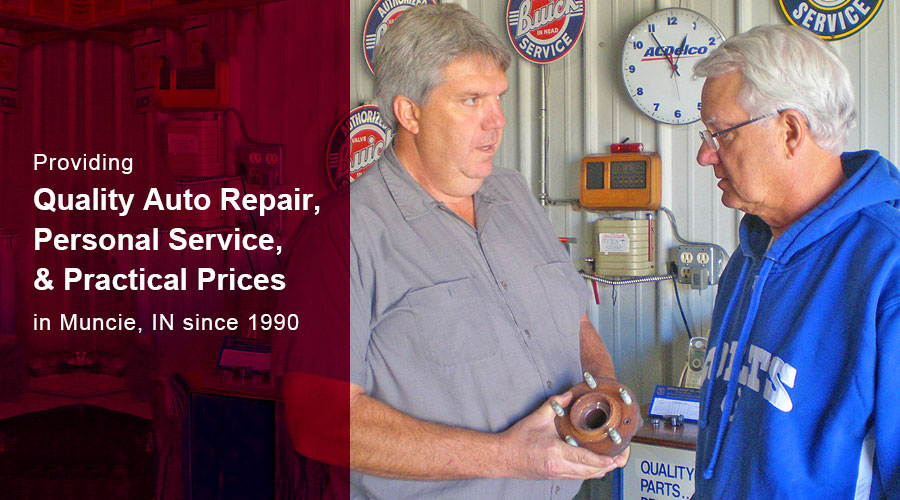
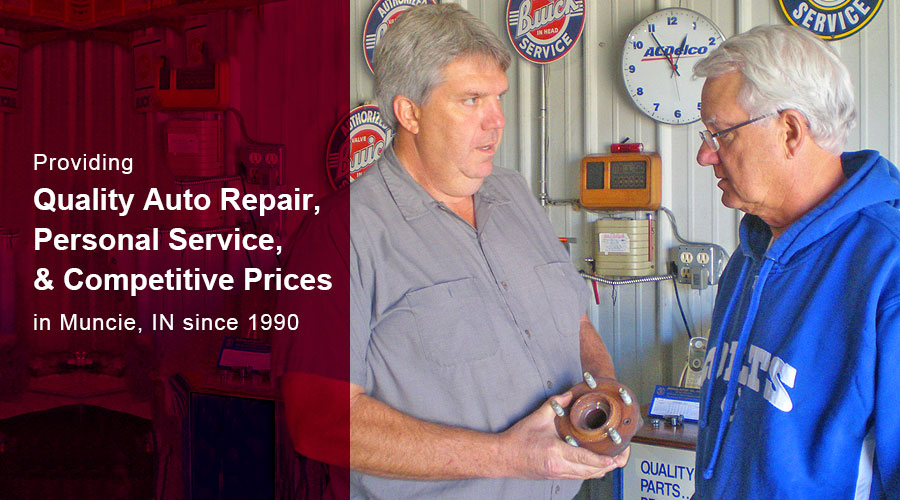
tweaks

Changed region(s): [[0.0622, 0.54, 0.3733, 0.6]]

diff --git a/web/index.html b/web/index.html
@@ -91,35 +91,13 @@
             <li><img src="img/slide-2a.jpg" alt=""></li>
         </ul>
     </div>
+    <div class="mobile-only-show">
+        <img id="mini-logo" src="img/logo.png">
+    </div>
 </div>
 <!--end home-->
 
-<!-- about -->
-<div id="about" class="section group">
-    <h1>About</h1>
 
-    <div class="bump">
-        <div class="textbox col span_7-12">
-            <p>Steve and Debbie opened Metcalfe Automotive in July of 1990 on the south side of Muncie.
-                Prior to that Steve worked at a locally well-known alignment shop right out of high school.
-                While studying automotive technology at Ivy Tech, he also spent several years as the lead
-                alignment technician at a local Chevrolet dealership. While at the dealership, Steve gained
-                experience and knowledge and became a GM certified technician, as well as an ASE
-                master and advanced level certified technician. Throughout the years,
-                Metcalfe Automotive has had opportunities to expand, but they have purposely kept the business
-                at a level where they can offer the personal service that
-                many of their long time customers have grown to appreciate. Since opening Metcalfe Automotive,
-                they continue to provide customers with a high-level of service, quality parts,
-                and pratical prices.</p>
-        </div>
-        <!--textbox-->
-        <div class="photo col span_5-12">
-            <img src="img/outsideshop.jpg" class="radius">
-            <img src="img/certlogos.png">
-        </div>
-    </div>
-</div>
-<!--end about-->
 
 <!-- services -->
 <div id="services" class="section group">
@@ -131,7 +109,7 @@
 
             <div id="table1col1" class="col span_6-12">
                 <ul>
-                    <li><a href="#alignment">3D wheel Alignment</a></li>
+                    <li><a href="#alignment">Wheel Alignment Using 3D Technology</a></li>
                     <li>Chassis and suspension repair</li>
                     <li>Strut replacement</li>
                     <li>Serpentine belt replacement</li>
@@ -158,7 +136,7 @@
     <div class="bump">
         <div id="gmservices" class="col span_12-12">
             <h2>Additional Services for GM Vehicles
-                <span>(Chevorlet, Buick, GMC, Cadillac, Pontiac, & Oldsmobile)</span></h2>
+                <span class="mobile-no-show">(Chevrolet, Buick, GMC, Cadillac, Pontiac, & Oldsmobile)</span></h2>
 
             <div id="table2col1" class="col span_6-12">
                 <ul>
@@ -187,7 +165,7 @@
                     <li>Pre purchase inspections</li>
                     <li>ABS light diagnosis and repair</li>
                     <li>Cooling system service</li>
-                    <li>Waterpump replacement</li>
+                    <li>Water pump replacement</li>
                     <li>Thermostat replacement</li>
                 </ul>
             </div>
@@ -207,15 +185,19 @@
                 3D wheel alignment machine in the business today for quick and accurate wheel alignments. Not all
                 3D alignment machines are created equal, only the Hofmann Geoliner machine can do both vehicle
                 dimensioning and steering and torque sensor re-calibration for a complete alignment to extend tire
-                life and maximize fuel economy. For more information, please give us a call.</p>
-            <img src="img/dimension.jpg" class="dim radius"/></div>
+                life and maximize fuel economy. For more information, give us a call today!</p>
+            <img src="img/dimension.jpg" class="dim radius mobile-no-show"/></div>
         <!--textbox-->
-        <div class="photo col span_5-12 ie7floatfix">
+        <div class="photo col span_5-12 mobile-no-show ie7floatfix">
             <img src="img/alignment-vert.jpg" class="transverse radius">
+        </div>
+
+        <div class="mobile-only-show photo">
+            <img src="img/slide1.jpg" class="dim radius">
         </div>
     </div>
 
-    <h1></br>Why might I need a wheel alignment?</h1>
+    <h1>Why should I get a Wheel Alignment?</h1>
 
     <div class="bump">
         <div class="textbox col span_12-12 ie7widthfix">
@@ -243,8 +225,13 @@
             needed!?
 
             <h3>Wanting to maximize fuel mileage.</h3>
-            If all four tires are not pointed in the same direction, it's harder for the car to trace efficiently.
+            If all four tires are not pointed in the same direction, it's harder for the car to track efficiently.
             The easier the car rolls or tracks without scuff, the easier it is on the engine and maximizes fuel mileage.
+
+            <h3>To save money throughout the year</h3>
+            If your tires are toed out of alignment by just .017 in., it's the equivalent of dragging your tires
+            sideways for 102 miles for every 20,000 you drive. That’ll cost you $187.50 a year in wasted gas. It will
+            wear your tires faster, costing you $70 more a year. That's a total of $257.50 per year out of your wallet!
 
         </div>
         <!--textbox-->
@@ -262,18 +249,47 @@
 </div>
 <!--end alignment-->
 
+<!-- about -->
+<div id="about" class="section group">
+    <h1>About</h1>
+
+    <div class="bump">
+        <div class="textbox col span_7-12">
+            <p>Steve and Debbie opened Metcalfe Automotive in July of 1990 on the south side of Muncie.
+                Prior to that Steve worked at a locally well-known alignment shop right out of high school.
+                While studying automotive technology at Ivy Tech, he also spent several years as the lead
+                alignment technician at a local Chevrolet dealership. While at the dealership, Steve gained
+                experience and knowledge and became a GM certified technician, as well as an ASE
+                master and advanced level certified technician. Throughout the years Steve has established credibility
+                by giving vehicles attention to detail and by doing the job right the first time. Providing personal,
+                trustworthy service, quality parts and competitive pricing is why many customers have trusted their
+                automobile needs to Metcalfe Automotive.
+                Henry Ford once said "One mechanic can tighten a bolt as well as another. The greatest difference in
+                mechanics lies in the degree of thoroughness with which they do their work and the logic they use in
+                finding the underlying causes behind the failures they encounter".</p>
+        </div>
+        <!--textbox-->
+        <div class="photo col span_5-12">
+            <img src="img/outsideshop.jpg" class="radius mobile-no-show">
+            <img src="img/certlogos.png">
+        </div>
+    </div>
+</div>
+<!--end about-->
+
 <!-- contact -->
 <div id="contact" class="section group">
     <h1>Contact</h1>
 
-    <div class="radius Flexible-container col span_7-12 no-float">
-        <iframe width="425"
+    <div id="map-container" class="radius Flexible-container col span_7-12 no-float">
+        <iframe id="map"
+                width="425"
                 height="350"
                 frameborder="0"
                 scrolling="no"
                 marginheight="0"
                 marginwidth="0"
-                src="https://maps.google.com/maps?f=q&amp;source=s_q&amp;hl=en&amp;geocode=&amp;q=2218+South+Monroe+Street,+Muncie,+IN&amp;aq=0&amp;oq=2218+S.+Monroe+Str&amp;sll=37.0625,-95.677068&amp;sspn=103.517908,65.478516&amp;ie=UTF8&amp;hq=&amp;hnear=2218+S+Monroe+St,+Muncie,+Indiana+47302&amp;t=m&amp;ll=40.174676,-85.380249&amp;spn=0.091814,0.145912&amp;z=12&amp;iwloc=A&amp;output=embed">
+                src="https://maps.google.com/maps?f=q&amp;source=s_q&amp;hl=en&amp;geocode=&amp;q=2218+South+Monroe+Street,+Muncie,+IN&amp;aq=0&amp;oq=2218+S.+Monroe+Str&amp;sll=37.0625,-95.677068&amp;sspn=103.517908,65.478516&amp;ie=UTF8&amp;hq=&amp;hnear=2218+S+Monroe+St,+Muncie,+Indiana+47302&amp;t=m&amp;ll=40.174676,-85.380249&amp;spn=0.091814,0.145912&amp;z=12&amp;iwloc=near&amp;output=embed">
         </iframe>
     </div>
 

diff --git a/web/css/style.css b/web/css/style.css
@@ -372,7 +372,6 @@ a {
 
 .dim {
     max-width: 100%;
-
     margin: 0 auto;
     margin-top: 30px;
 }
@@ -538,6 +537,10 @@ br.test {
     *display: inline;
 }
 
+.mobile-only-show {
+    display: none;
+}
+
 /*  WIDTH AT LESS THAN 768 PIXELS */
 
 @media only screen and (max-width: 768px) {
@@ -678,7 +681,7 @@ br.test {
 
     #mainHeader {
         width: 100%;
-        margin-top: 0px;
+        margin-top: 0;
         padding: 0;
         background-image: none;
         background-color: #4c4d4f;
@@ -728,13 +731,19 @@ br.test {
         width: 100%;
     }
 
+    #mostmakes,
+    #gmservices {
+        padding: 0;
+    }
+
     .textbox {
         clear: both;
-        padding: 15px;
+        padding:  0 10px 10px 10px;
         margin: 0 auto;
     }
 
-    h1 { padding: 15px;}
+    h1 { padding: 7px 10px;}
+    h2 {margin-bottom: 0}
 
     #trio {
         display: none;
@@ -752,9 +761,13 @@ br.test {
 
     #table2col1 ul, #table1col1 ul {
         margin-bottom: 0;
+        padding-right: 5px;
+        padding-left: 25px;
     }
     #table2col2 ul, #table1col2 ul {
         margin-top: 0;
+        padding-left: 25px;
+        padding-right: 5px;
     }
     #header-nav a {
         padding: 0 1em;
@@ -763,5 +776,54 @@ br.test {
     }
     #home {
         margin-top: 2.75em;
+    }
+
+    .section {
+        margin: 10px;
+    }
+
+    .mobile-no-show,
+    .photo img.mobile-no-show{
+        display: none;
+    }
+
+    #logo {
+        display: none;
+    }
+
+    .fbicon {
+        display: none;
+    }
+
+    #mainHeader nav {
+        top: 0;
+        margin-top: 10px;
+    }
+
+    header,
+    .header {
+        height: auto;
+    }
+
+    .window { margin-top: 0;}
+
+    #home { margin-top: 10px;}
+
+    .rslides_container {display: none;}
+
+    .mobile-only-show {
+        display: block;
+    }
+    #mini-logo {
+        width: 100%;
+
+    }
+
+
+
+    #map-container {
+        margin-left: 5%;
+        width: 90%;
+        height: 300px;
     }
 }
